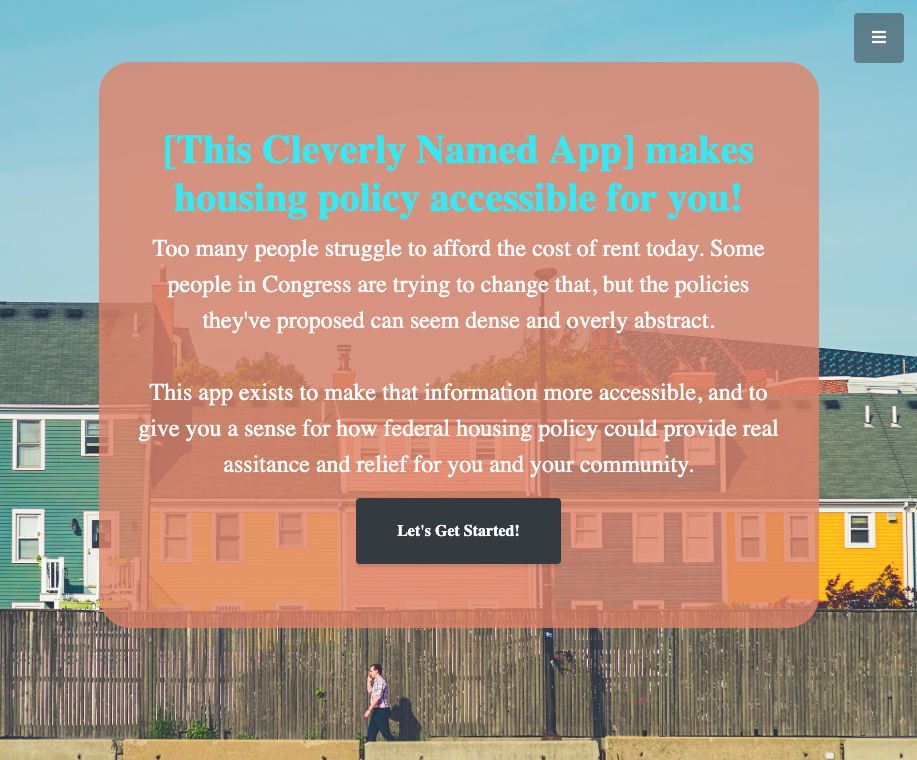
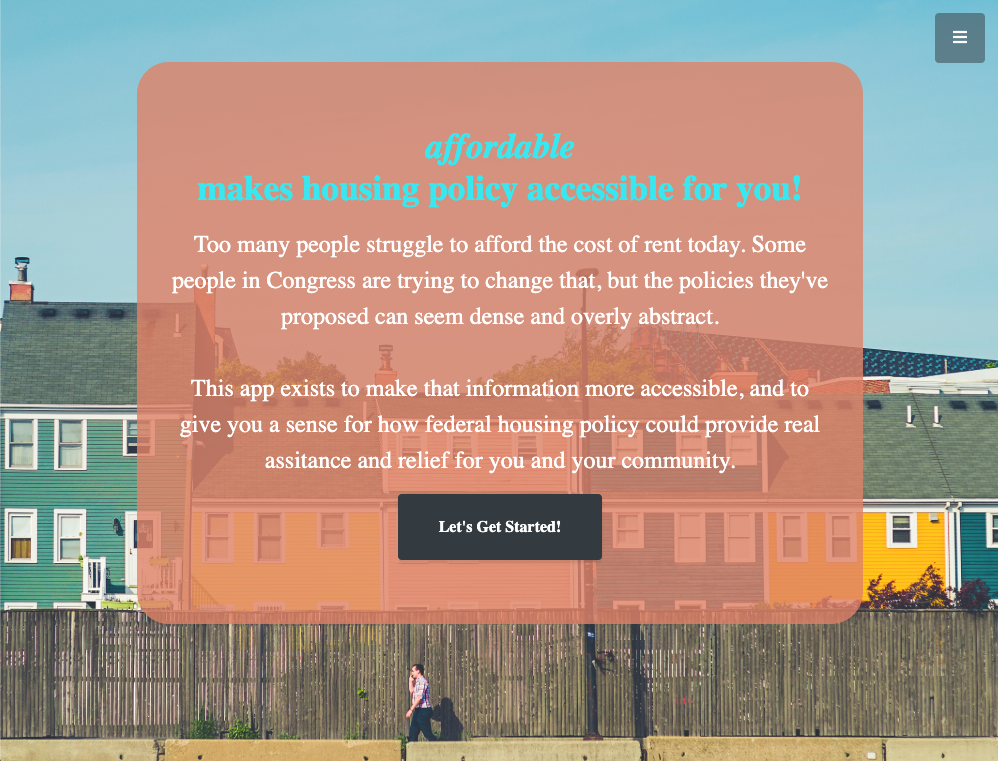
update readme

Changed region(s): [[0.0, 0.0605, 1.0, 1.0], [0.916, 0.0303, 0.9466, 0.0908]]

diff --git a/README.md b/README.md
@@ -1,10 +1,10 @@
-# AFFORDABLE
+# affordable
 
-AFFORDABLE is a responsive React/Redux SPA created by [Andrew A Johnson](https://andrewjohnson.dev) to help make affordable housing policy more accessible.
+[affordable](https://github.com/aaj3f/housing-policy-react) is a responsive React/Redux SPA created by [Andrew A Johnson](https://andrewjohnson.dev) to help make affordable housing policy more accessible.
 
 ## Preview
 
-[![AFFORDABLE preview](./src/img/affordableSS.png)](http://bit.ly/2Q30l4M)
+[![affordable preview](./src/img/affordableSS.png)](http://bit.ly/2Q30l4M)
 
 **[Development Video Demo](http://bit.ly/2Q30l4M)**
 
